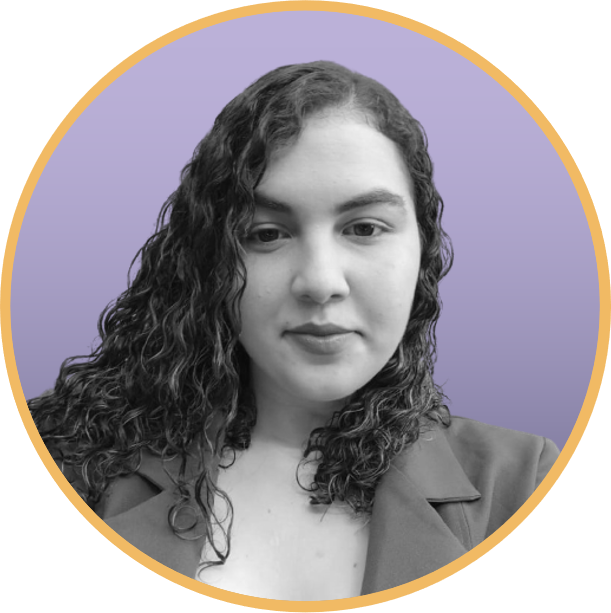
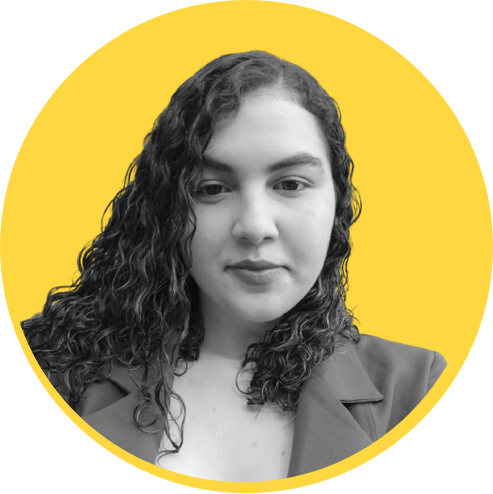
Add files via upload

diff --git a/web_meji/index.html b/web_meji/index.html
@@ -5,7 +5,7 @@
     <meta http-equiv="X-UA-Compatible" content="IE=edge">
     <meta name="viewport" content="width=device-width, initial-scale=1.0">
     <title>meji</title>
-    <link rel="shortcut icon" href="assets/img/icone.ico" type="image/x-icon">
+    <link rel="shortcut icon" href="assets/img/icone_1.ico" type="image/x-icon">
     <link rel="stylesheet" href="css/style.css">
 </head>
 <body>
@@ -23,10 +23,10 @@
 
     <section class="banner" id="banner">
         <div class="content"> 
-            <img src="assets/img/logo.png" alt="" width="200px">
+            <img src="assets/img/logo.png" alt="" width="300px">
             <br><br> 
-            <p>O Meji é uma plataforma focada em Mulheres Empreendedoras e Jovens Inspiradoras, capaz de unir diferentes provedoras de serviços ou produtos e suas clientes, sendo uma solução eficiente para troca de serviços sem tirar 1 centavo do bolso, por meio da nossa moeda virtual: a Mejilis.</p>  <br> <br>
-            <a href="download/Meji.apk" class="btn2" download="Meji">Download do aplicativo</a> 
+            <p>A plataforma Meji é focada em Mulheres Empreendedoras e Jovens Inspiradoras, capaz de unir diferentes profissionais autônomas à mulheres de baixa renda que desejam empreender, sendo uma solução eficiente para troca de serviços sem tirar 1 centavo do bolso, por meio da nossa moeda virtual: a Mejilis.</p>  <br> <br>
+            <a href="https://github.com/FernandaPS29/Meji/blob/main/mobile_meji/meji.apk?raw=true" class="btn2">Download do aplicativo</a> 
         </div>
     </section>
 
@@ -35,11 +35,11 @@
             <div class="col50">
                 <h2 class="titleText"><span>M</span>as por que eu devo acreditar que funciona para mim?</h2>
                 <br>
-                <p><span style="color:#f1ba64; size: 40px;">*</span> O aplicativo é gratuito. Você só paga se quiser utilizar anúncios patrocinados a atingir ainda mais clientes. </p>  <br>
-                <p><span style="color:#f1ba64; size: 40px;">*</span> As negociações feitas por meio da moeda Mejilis são isentas de impostos. </p>  <br>
-                <p><span style="color:#f1ba64; size: 40px;">*</span> Ganhe mais moedas por meio de indicações e por pontos conquistados em trilhas de conhecimento. </p>  <br>
-                <p><span style="color:#f1ba64; size: 40px;">*</span> Seus serviços e produtos divulgados para mulheres do Brasil inteiro! </p>   <br>
-                <p><span style="color:#f1ba64; size: 40px;">*</span> Se o <a href="https://www.grupomulheresdobrasil.org.br/" target="_blank" style="text-decoration: none; color:#5f5d7e"> Grupo Mulheres do Brasil</a> confia, você também pode confiar! </p>  <br>
+                <p><span style="color:#FFD740; size: 40px;">*</span> O aplicativo é gratuito. Você só paga se quiser utilizar anúncios patrocinados a atingir ainda mais clientes. </p>  <br>
+                <p><span style="color:#FFD740; size: 40px;">*</span> As negociações feitas por meio da moeda Mejilis são isentas de impostos. </p>  <br>
+                <p><span style="color:#FFD740; size: 40px;">*</span> Ganhe mais moedas por meio de indicações e por pontos conquistados em trilhas de conhecimento. </p>  <br>
+                <p><span style="color:#FFD740; size: 40px;">*</span> Seus serviços e produtos divulgados para mulheres do Brasil inteiro! </p>   <br>
+                <p><span style="color:#FFD740; size: 40px;">*</span> Se o <a href="https://www.grupomulheresdobrasil.org.br/" target="_blank" style="text-decoration: none; color:#3F0648"> Grupo Mulheres do Brasil</a> confia, você também pode confiar! </p>  <br>
             </div>
             <div class="col50">
                 <div class="imgBx">
@@ -52,7 +52,7 @@
     <section class="menu" id="menu">
         <div class="title">
             <h2 class="titleText"> Vejam nosso <span>v</span>ídeo</h2>
-            <p>Apoiem esse projeto!</p>
+            <p>Clique na imagem abaixo para ser redirecionado(a)!</p>
         </div>
         <div class="content">
             <a href="https://youtu.be/" target="_blank">
@@ -67,7 +67,7 @@
     <section class="expert" id="expert">
         <div class="title">
             <h2 class="titleText"> Objetivos do Desenvolvimento Sustentável </h2>
-            <p><span style="color:#f1ba64;">ODS</span></p>
+            <p><span style="color:#FFD740;">ODS</span></p>
         </div>
         <div class="content">
                 <div class="box2">
@@ -76,7 +76,7 @@
                     </div>
                     <div class="text">
                         <br>
-                        <h3 style="color:#f1ba64;">ODS 1</h3>
+                        <h3 style="color:#3F0648;">ODS 1</h3>
                         <h4 style="color: #504e4f;">Erradicação da pobreza</h4>
                     </div>
                 </div>
@@ -86,7 +86,7 @@
                         </div>
                         <div class="text">
                             <br>
-                            <h3 style="color:#f1ba64;">ODS 8</h3>
+                            <h3 style="color:#3F0648;">ODS 8</h3>
                             <h4 style="color: #504e4f;">Trabalho decente e crescimento econômico</h4>
                         </div>
                     </div>
@@ -96,7 +96,7 @@
                 </div>
                 <div class="text">
                     <br>
-                    <h3 style="color:#f1ba64;">ODS 10</h3>
+                    <h3 style="color:#3F0648;">ODS 10</h3>
                     <h4 style="color: #504e4f;">Redução das desigualdades</h4>
                 </div>
             </div>
@@ -106,7 +106,7 @@
                 </div>
                 <div class="text">
                     <br>
-                    <h3 style="color:#f1ba64;">ODS 11</h3>
+                    <h3 style="color:#3F0648;">ODS 11</h3>
                     <h4 style="color: #504e4f;">Cidades e comunidades sustentáveis</h4>
                 </div>
             </div>

diff --git a/web_meji/css/style.css b/web_meji/css/style.css
@@ -47,7 +47,7 @@ p {
     color: #f7f2f1;
 }
 .banner .content p a {
-    color: #f1ba64;
+    color: #FFD740;
 }
 .btnFacil:hover {
     letter-spacing: 9px;
@@ -61,7 +61,7 @@ p {
 .btn {
     font-size: 2em;
     color: #f7f2f1;
-    background: #f1ba64;
+    background: #FFD740;
     display: inline-block;
     padding: 10px 30px;
     margin-top: 20px;
@@ -72,7 +72,7 @@ p {
 .btn2 {
     font-size: 2em;
     color: #f7f2f1;
-    background: #f1ba64;
+    background: #FFD740;
     display: inline-block;
     padding: 10px 30px;
     margin-top: 20px;
@@ -90,7 +90,7 @@ p {
     text-decoration: none;
 }
 .linkedin h4{
-    color: #f1ba64;
+    color: #3F0648;
 }
 header {
     position: fixed;
@@ -105,14 +105,14 @@ header {
     transition: 0.5s;
  }
 header.sticky {
-    background: #5f5d7e;
+    background: #3F0648;
     padding: 10px 100px;
     box-shadow: 0 5px 20px rgba (0,0,0,0.05);
 }
 
 
 header .logo {
-    color: #504e4f;
+    color: #f7f2f1;
     font-weight: 900;
     font-size: 2em;
     text-decoration: none;
@@ -123,7 +123,7 @@ header.sticky .logo {
 }
 
 header .logo span {
-    color: #f1ba64;
+    color: #FFD740;
 }
 header .navigation {
     position:relative;
@@ -137,7 +137,7 @@ header .navigation li {
 
 header .navigation li a {
     text-decoration: none;
-    color: #504e4f;
+    color: #f7f2f1;
     font-weight: 500;
 }
 
@@ -146,7 +146,7 @@ header.sticky .navigation li a {
 }
 
 header .navigation li a:hover {
-    color:#f1ba64;
+    color:#FFD740;
 }
 
 section {
@@ -172,13 +172,13 @@ section {
 }
 
 .titleText span {
-    color: #f1ba64;
+    color: #FFD740;
     font-weight: 700; 
     font-size: 2em;
 
 }
 .pink {
-    color: #f1ba64;
+    color: #FFD740;
 }
 .row .col50 .imgBx {
     position: relative;
@@ -360,7 +360,7 @@ section {
     margin-top: 20px;
     color: #504e4f;
     font-size: 2em;
-    color: #f1ba64;
+    color: #FFD740;
     font-weight: 700;
 }
 
@@ -406,7 +406,7 @@ section {
 {
     font-size: 1em;
     color: #f7f2f1;
-    background: #f1ba64;
+    background: #FFD740;
     display: inline-block;
     text-decoration: none;
     letter-spacing: 2px;
@@ -420,7 +420,7 @@ section {
 .copyrightText {
     padding: 8px 40px;
     text-align: center;
-    background: #5f5d7e;
+    background: #3F0648;
 }
 
 .copyrightText p {
@@ -428,7 +428,7 @@ section {
 }
 
 .copyrightText a {
-    color:#f1ba64;
+    color:#FFD740;
     font-weight: 700;
     text-decoration: none;
 }
